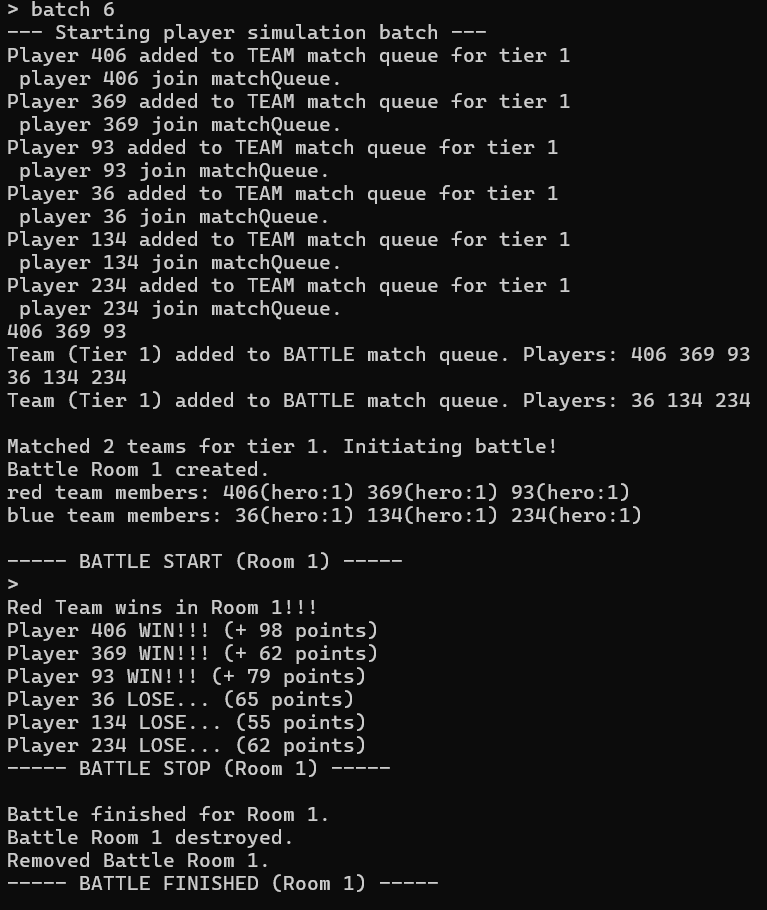
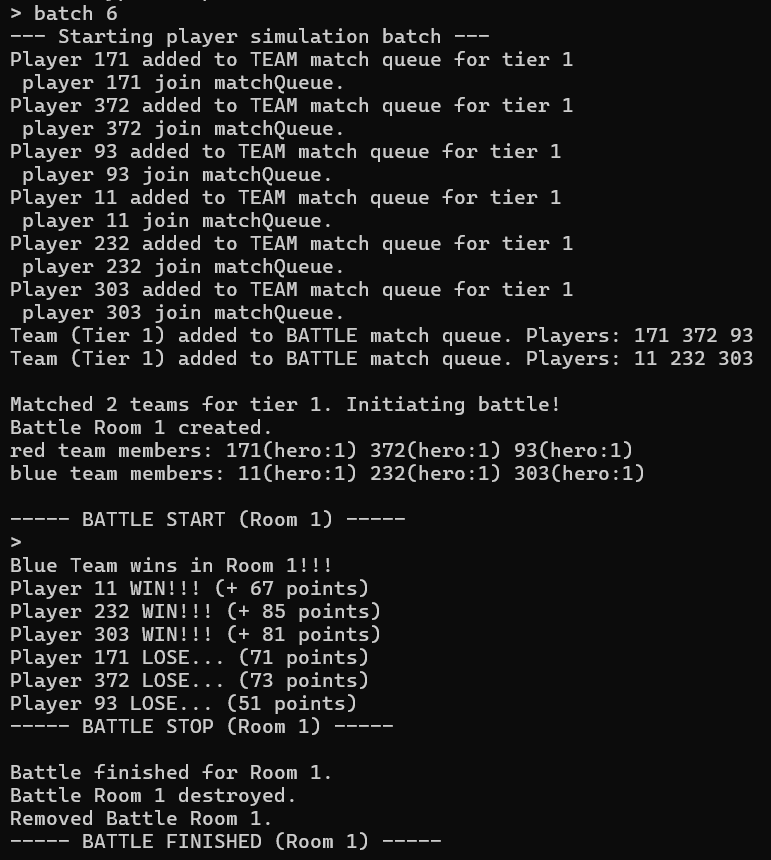
<docs>demo image updated <chore>remove test code

Changed region(s): [[0.0, 0.0, 0.9896, 0.9977], [0.5098, 0.9674, 0.5698, 0.9977]]

diff --git a/src/managers/battleManager.cpp b/src/managers/battleManager.cpp
@@ -361,12 +361,6 @@ void BattleManager::matchmakingThread()
 
                 if (vecNewTeam.size() == battle::TeamMembers::TeamMemberMax)
                 {
-                    for (Player* pPlayer : vecNewTeam) 
-                    {
-                        std::cout << pPlayer->getId() << " ";
-                    }
-                    std::cout << std::endl;
-
                     m_battleMatchQueue.addTeam(vecNewTeam);
                 }
                 else 
